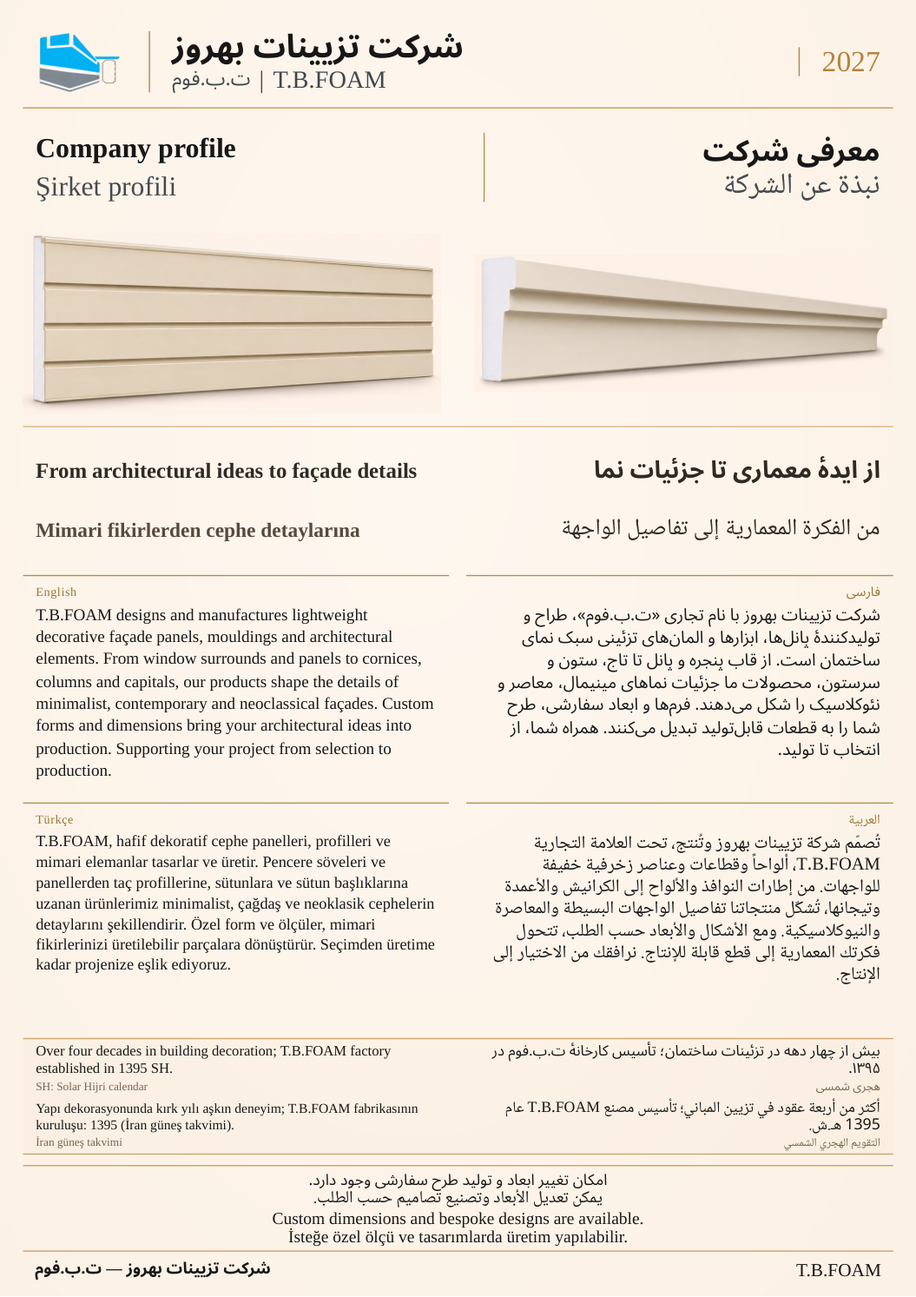
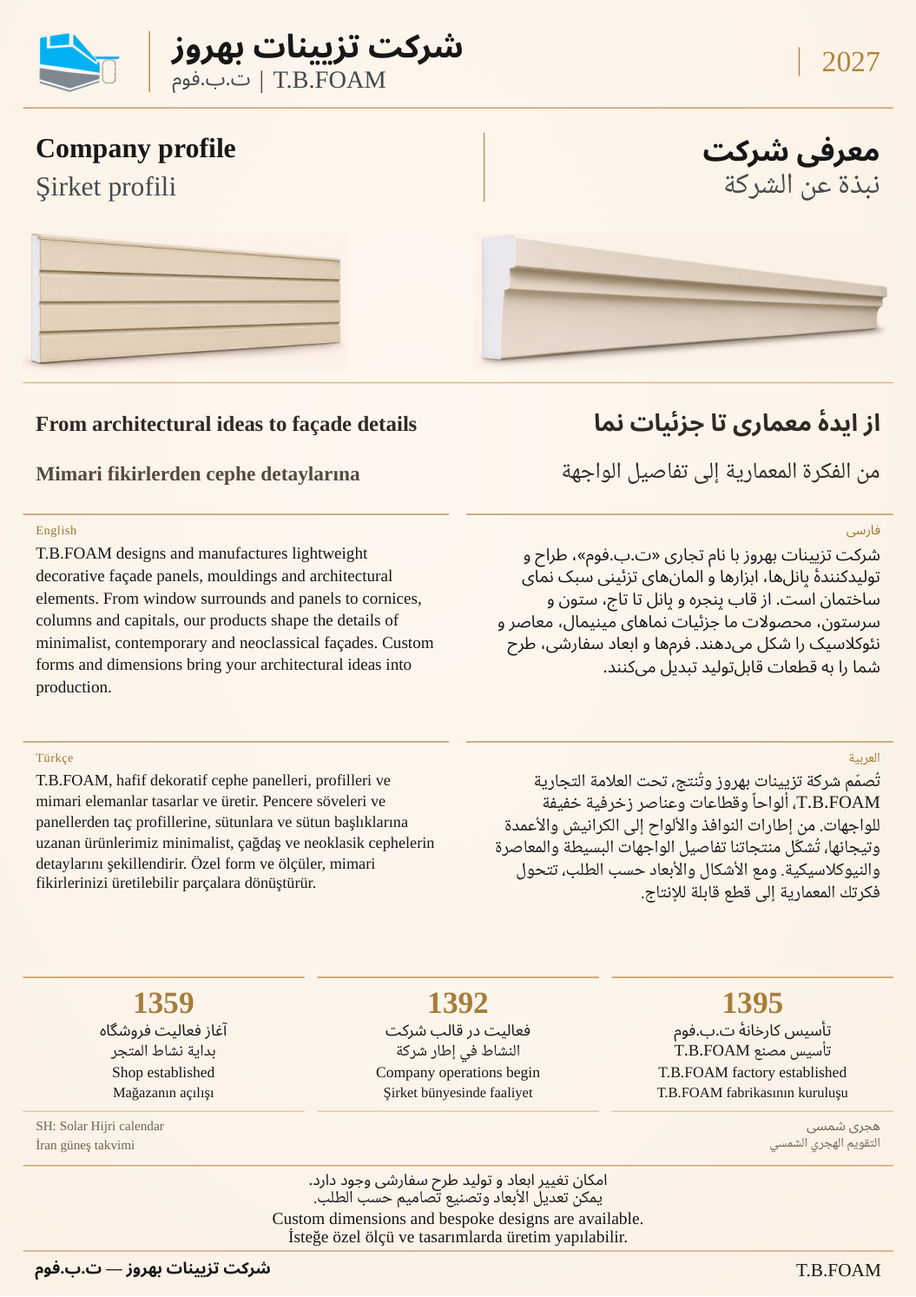
Expand company catalogue review to three complete four-language pages

Changed region(s): [[0.0303, 0.4005, 0.9706, 0.8935], [0.0303, 0.1849, 0.4853, 0.3697], [0.5156, 0.1849, 0.9706, 0.3697]]

diff --git a/CATALOGUE_2027_PROJECT.md b/CATALOGUE_2027_PROJECT.md
@@ -1,10 +1,10 @@
 # سند مرجع پروژهٔ بازطراحی کاتالوگ ۲۰۲۷
 
-نسخهٔ سند: 0.70 — آخرین بهروزرسانی: ۲۰۲۶/۱۱/۱۲، به وقت تهران
+نسخهٔ سند: 0.71 — آخرین بهروزرسانی: ۲۰۲۶/۱۱/۱۲، به وقت تهران
 
 وضعیت: مرحلهٔ۱ «جدول مادر و کدگذاری» طبقD-078تاD-080بسته شد:۳۲۲مرجع فرم،۵۰۲پیکربندی باکدمصوبیکتا،واحدعرضه وابعادلازم ثبت وکنترلشدند؛مواردبازاینمرحله صفر است. FTB23و24طبقپاسخصریح دراینکاتالوگدرج نشوند،امافعالبودنتولیدشانمحفوظ است. همهٔپانلهایمنتخب50×200وهرشاخه1m²؛کدهایCRTBبرایتاج وCTB201–210برایبدنهٔستون وپسونداندازههادرجدولمادراعمال شدهاند. برچسبصفحاتپیشنمایشقدیمی هنوزمرجعکدقدیمیاند ودرمرحلهٔیکپارچهسازی باکدمصوبهمگام شوند؛عکسها/قالب/لوگو تغییرنکردهاند.
 
-مرحلهٔ جاری: مرحلهٔ۳ «معرفی شرکت و توانمندیها». کارفرما در D-095 نسخهٔ دوصفحهای را «خیلی مختصر و مفید» دانست و دربارهٔ کاملترشدن نظر خواست. پیشنهاد محتوایی تهیه شد: سه صفحه در مجموع، شامل معرفی/تاریخچه، ساختار/مزیتها و دامنهٔ تولید/خدمات شرکت. مهمترین افزودنی زنجیرهٔ خدمات واقعی از بررسی نقشه تا جانمایی، تولید/کدگذاری و پشتیبانی فنی است. تعداد سه صفحه هنوز پیشنهاد است و تأیید نشده؛ هیچ تصویر، متن چاپی منتشرشده یا قالبی تغییر نکرد. نسخهٔ۴ و هر دو صفحهٔ فعلی مرجع منتشرشده باقیاند؛ مسئلهٔ نمایش E-045 بسته است. مرحلهٔ۳ هنوز باز و مرحلهٔ۴ آغاز نشود.
+مرحلهٔ جاری: مرحلهٔ۳ «معرفی شرکت و توانمندیها». کارفرما در D-096 پس از پیشنهاد سه صفحه در مجموع، دستور داد «صفحات رو ویرایش کن و لینک رو ارسال کن». نسخهٔ۵ شامل سه صفحهٔ واقعی آماده و کنترل شد: معرفی/سه نقطهٔ تاریخچه، تولید/مزیتها با شرط رنگ مناسب نما، و دامنهٔ۱۳گروه/چهار خدمت با محدودهٔ همکاری. هر چهار زبان، تاریخها، خدمات و یادداشت دامنه با منبع متن تطبیق داده شدند؛ سرریز ندارد و سربرگ/پاورقی هر سه صفحه اختلاف پیکسلی صفر دارند. بازبینی بصری مستقل مناسببودن برای بازبینی کارفرما را تأیید کرد. نسخهٔ۴ خوانا در snapshot محفوظ است. طبق همین درخواست، سه PNG و README در پوشهٔ بازبینی فعلی بهروز و پس از کنترل main/هش/مرورگر، لینک نسخهٔ تازه ارائه شود؛ مجوز مجدد لازم نیست. تأیید نهایی طراحی هنوز دریافت نشده است.
 
 
 ### مرجع اجرایی ثابت — پیش از هر تولید/اصلاح خوانده شود؛ مقدم بر سوابق قدیمی
@@ -13,8 +13,8 @@
 
 | موضوع | تصمیم جاری و الزام اجرا |
 | --- | --- |
-| مرحلهٔ فعال و متن معرفی | D-091: مرجع صفحهٔ چاپی brand-pages-copy-v4.json و build_brand_pages.py است؛ BRAND-01/02 تصاویر واقعی آمادهٔ بازبینیاند. متن بلند فارسی۳ فقط ذخیرهٔ محتواست و بهعنوان صفحهٔ کاتالوگ یا متن چاپی مصوب استفاده نشود. توضیحهای منبع/تدوین در artwork ممنوعاند. CURRENT.json مرجع نسخهٔ جاری است. |
-| مجوز انتشار معرفی و توانمندیها | D-092 اجرا شد: دو PNG + README در پوشهٔ company-profile-2027 برای بازبینی منتشر و بارگذاری واقعی هر دو تصویر کنترل شد. مجوز دوباره لازم نیست؛ تأیید نهایی طراحی یا چاپ هنوز دریافت نشده است. |
+| مرحلهٔ فعال و متن معرفی | D-096: مرجع جاری برند نسخهٔ۵ و سه صفحهٔ BRAND-01/02/03 است؛ copy-v5.json و build/render_brand_pages_v5.py و CURRENT.json. نسخهٔ۴ در snapshots/v4-readable محفوظ است. درخواست ویرایش و لینک، اجرای پیشنهاد سهصفحهای و انتشار در همان پوشهٔ بازبینی را پوشش میدهد؛ تأیید نهایی چاپ نیست. |
+| مجوز انتشار معرفی و توانمندیها | D-096 بهروزرسانی همان بخش به سه صفحه و ارسال لینک را مجاز کرد؛ سه PNG و README در company-profile-2027 جایگزین/افزوده شوند. PDF/کد/منابع خام محلی بمانند. مجوز دوباره لازم نیست؛ نتیجهٔ واقعی انتشار/مرورگر قبل از ارائهٔ لینک کنترل شود. |
 | دامنهٔ بخش ترکیب | ۱۲ صفحه طبق D-084 آماده و طبق D-086 منتشر شدند. کارفرما در D-088 مشاهدهٔ موفق و بازخورد مثبت را اعلام و ادامه به مرحلهٔ بعد را خواست؛ مرحلهٔ۲ برای پیشروی برنامه بسته است. ۲۷ کد از ۱۳ گروه؛ اصلاحات آینده فقط بر اساس بازخورد مشخص، نه بازتولید یا تغییر سبک خودکار. شمارهٔ چاپ همچنان در مرحلهٔ یکپارچهسازی تعیین شود. |
 | انتشار جاری ترکیبها | D-086 اجرا شد: هر ۱۲ صفحه و فهرست در پوشهٔ بازبینی منتشر و هر ۲۵ URL کنترل شد. PNG نخست ثابت؛ ۱۱ PNG تازه + ۱۲ MD مستقل + README فهرست اضافه/بهروز شدند. PDF/کد/منابع خام/جدول مادر منتشر نشدند. انتشار برای بازبینی است و تأیید نهایی طراحی/چاپ محسوب نمیشود. |
 | مجوز بازبینی نخستین ترکیب | D-082:کارفرماصریحاًگفت«بله،برایبازبینی منتشرکن»؛فقطWIN-COMB-NC-01.pngوREADMEهمانصفحه درcatalog/pages/review/combinations-2027مجازند؛باقیفایلهایPNG/PDF/داده/مدل محلی بمانند |
@@ -695,6 +695,7 @@
 | D-093 | گزارش عدمنمایش معرفی و خطای اتصال Firefox | صفحهٔ گیت باز میشود ولی تصاویر نیستند؛ raw با PR_END_OF_FILE_ERROR و reset قطع میشود. کارفرما آزمایش CDN را هم ناموفق اعلام کرد | خطای تحویل از سمت کارفرما باز است؛ موفقیت بارگذاری محیط، مشاهدهٔ او نیست. فایلهای منتشرشده عیناً حفظ شدند. آزمون بعدی همان صفحه در مرورگر دیگر است؛ از تکرار لینکهای تازه و تغییر طرح برای این مسئله پرهیز شود. |
 | D-094 | تأیید مشاهده و خوانایی صفحات معرفی و توانمندیها | کارفرما: «درست شد و قابل خواندن هست» | E-045 بسته؛ همان دو تصویر و متن نسخهٔ۴ ثابت بمانند. دامنهٔ تأیید این پیام مشاهده/خوانایی است؛ بازخورد متن/چیدمان هنوز لازم است و مرحلهٔ۳ خودکار بسته نشود. |
 | D-095 | بازخورد مثبت دربارهٔ اختصار و درخواست نظر برای کاملترشدن | کارفرما: «خیلی مختصر و مفید بود . آیا بنظرت میشه کاملترش کرد؟» | پیشنهاد سه صفحه در مجموع و چهار افزودنی اولویتدار آماده شد؛ درخواست نظر، تأیید افزایش صفحات یا مجوز تغییر/انتشار طرح تازه نیست. نسخهٔ فعلی محفوظ و مرحلهٔ۳ باز است. |
+| D-096 | دستور اجرای تکمیل سهصفحهای و ارسال لینک | در پاسخ به پیشنهاد سه صفحه در مجموع، کارفرما: «صفحات رو ویرایش کن و لینک رو ارسال کن» | سه صفحه با همان هویت/لوگو و خوانایی ساخته و در همان پوشهٔ بازبینی بهروز شود؛ درخواست انتشار همین نسخه روشن است و اجازهٔ دوباره لازم نیست. انتشار نسخهٔ بازبینی، تأیید نهایی متن/چاپ نیست. |
 
 ### موارد باز
 
@@ -823,6 +824,7 @@
 | E-043 | ارائهٔ متن بلند/گزارشی بهجای معرفی حرفهای داخل کاتالوگ؛ اعتراض صریح کارفرما D-091 | صفحههای واقعی BRAND-01/02 با متن کوتاه چهارزبانه ساخته شد؛ عبارتهای ارجاعی مانند «بر اساس تاریخچه...» و یادداشتهای منبع در تصویر چاپی حذف شد. ارجاع دقیق کارفرما به یک خط مشخص نبود؛ بدون پرسش تکراری، کل متن از نظر لحن مشتریمحور اصلاح شد. نتیجه برای بازبینی آماده و تأیید کارفرما هنوز دریافت نشده است. |
 | E-044 | کنترل اولیهٔ صفحهآرایی: متن انگلیسی معرفی حدود۶px و دو عنوان/متن توانمندی انگلیسی حدود۱۱px از فضای داخلی بیرون میزدند | فاصلهٔ داخلی و فاصلهٔ برچسب زبان اصلاح شد؛ عنوانها به Custom forms & sizes و Light & prefabricated کوتاه شدند. اندازهٔ قلم بدنه برای پنهانکردن خطا کوچک نشد. کنترل مجدد هر دو صفحه موفق و بازبینی بصری مستقل انجام شد؛ همهٔ زبانها و برندینگ سالماند. |
 | E-045 | تصاویر معرفی در سمت کارفرما نمایش داده نمیشدند؛ raw در Firefox خطای PR_END_OF_FILE_ERROR/reset داشت و آزمون CDN هم ناموفق بود | پس از پیشنهاد آزمون همان صفحه در مرورگر دیگر، کارفرما در D-094 صریحاً گفت «درست شد و قابل خواندن هست». وضعیت: بسته از جهت نمایش/خوانایی. نام مرورگر موفق و علت دقیق خطا اعلام نشده؛ موفقیت raw/CDN یا تأیید طراحی از آن نتیجه نشود. هیچ تصویر یا طرحی برای حل این مسئله تغییر نکرد؛ آزمایش نمایش دوباره مانع کار نشود. |
+| E-046 | آزمون اولیهٔ صفحهٔ۳ در نسخهٔ۵: متن انگلیسی تولید/آمادهسازی حدود۵px از کارت بیرون میزد | فقط عنوان و جملهٔ همان خدمت کوتاه شد: Production & coding / Production, coding and packaging for coordinated project installation. اندازهٔ قلم کمتر نشد. رندر نهایی هر سه صفحه، تطبیق تاریخها/خدمات/دامنه و بازبینی بصری مستقل موفق است؛ خطا پیش از انتشار رفع شد. |
 
 ### پیشنهادهای ۲۰۲۶/۱۱/۰۴ — در انتظار نظر، بدون تغییر فایل طرح
 
@@ -1682,7 +1684,7 @@ DTB10 در رندر منتخب /workspace/generated_images/exec-00dc88f4-5210-4d
 | --- | --- | --- |
 | ۱ — تمامشده | تثبیت جدولمادر محصولات وکدگذاری | ۵۰۲کدمصوبیکتا،ابعاد/واحدها ونگاشتقدیم-جدید کامل؛مواردبازاینمرحله صفر،stage1-final-validation.jsonموفق |
 | ۲ — تمامشده | ترکیب پیشنهادی نما و دور پنجره | ۱۲ صفحه با ۲۷ کد از ۱۳ گروه منتشر و نمایش مستقیم اصلاح شد؛ مشاهده و بازخورد مثبت کارفرما طبق D-088 دریافت شد؛ سبک/عکسها حفظ شوند |
-| ۳ — فعال | معرفی برند و توانمندیها | دو پیشنویس واقعی BRAND-01/02 چهارزبانه در هویت مصوب ساخته و کنترل شدهاند؛ دو PNG و README محلی آمادهٔ بازبینی است. انتشار جدید فقط با مجوز مشخص، سپس دریافت بازخورد؛ این مرحله هنوز بسته نیست |
+| ۳ — فعال | معرفی برند و توانمندیها | نسخهٔ۵ سهصفحهای طبق D-096 ساخته/کنترل شده؛ در همان پوشهٔ بازبینی برای ارائهٔ لینک بهروز شود، سپس بازخورد کارفرما دریافت شود. مرحله هنوز بسته نیست |
 | ۴ | راهنمای انتخاب،اجرا و سفارش | واحدفروش/طولعرضه،راهنمایفنی/نصبمطابقمنبع،مسیرارسالکد+ابعاد+مقدار+اطلاعاتپروژه،کانال تماس وQRمعتبر؛اطلاعاتتأمینبرایانبوهساز وشرایطهمکاریفروشنده پسازتأیید |
 | ۵ | یکپارچهسازی و ناوبریچهارزبانه | ترتیببخشها،فهرستکدمحصول/بخش،واژهنامه واطلاعاتفنیچهارزبان،نشانک و لینکPDF؛شمارهگذاریچاپ پسازتثبیت ترتیب |
 | ۶ | آزمونانتخاب/سفارش و کنترلخروجی | یکسناریویانتخابواستعلام برایهر۵گروه اجرا؛بررسیخواناییA4باچاپآزمایشی،لینک/QRومسیرسفارش؛پسازرفعموارد تحویلنهایی |
@@ -2462,6 +2464,22 @@ PNG SHA-256: ef2cccac29eeac5176930123616cca5c54c825f848d111f64f01dfc682d633ec؛P
 
 | ۲۰۲۶/۱۱/۱۲ | بازخورد مثبت دربارهٔ اختصار و درخواست نظر تکمیل، D-095 | پیشنهاد اولویتدار و پاراگراف خدمات آماده شد؛ سه صفحه در مجموع توصیه شد ولی مصوب نیست؛ هیچ تصویر/لوگو/صفحهٔ منتشرشده تغییر نکرد | ارائهٔ پیشنهاد و دریافت تصمیم دامنه؛ مرحلهٔ۳ باز میماند و مرحلهٔ۴ شروع نشود |
 
-اقدام بعدی: پیشنهاد تکمیل هدفمند به سه صفحه در مجموع و ارزش افزودهٔ خدمات/دامنهٔ تولید به کارفرما ارائه شود. عدد سه را مصوب فرض نکنید. اگر دربارهٔ دامنه تصمیم داده شد، فقط همان بخش در نسخهٔ بعدی با هویت و خوانایی فعلی طراحی شود؛ عکسها/لوگو/صفحات دیگر خودکار تغییر نکنند. راهنمای ثبت سفارش/QR/تماس/دستور نصب همچنان مرحلهٔ۴ است و فعلاً تولید نشود. اصل دو صفحهٔ منتشرشده و نسخهٔ۴ محفوظاند؛ فعلاً فقط فایل پروژه در گیت بهروز شود.
+### نسخهٔ۵ سهصفحهای — اجرای D-096
+
+| صفحه | ویرایش انجامشده | وضعیت |
+| --- | --- | --- |
+| BRAND-01 | معرفی کوتاه و سه مرحلهٔ تاریخچه۱۳۵۹ فروشگاه/۱۳۹۲ فعالیت شرکت/۱۳۹۵ کارخانه؛ تقویم هجری شمسی صریح | تصویر محصولات با همان اصل و مقیاس یکنواخت برای فضای تاریخچه کوچکتر نمایش داده شد؛ هیچ مدل/رندر اصلی تغییر نکرد |
+| BRAND-02 | ساختار EPS/CNC/پوشش همان نسخهٔ خوانا؛ شرط رنگ مناسب نمای خارجی در مزیت رنگ/ترمیم تکمیل شد | اندازهٔ قلم و چیدمان قبلی حفظ شد |
+| BRAND-03 | دامنهٔ۱۳گروه؛ بررسی نقشه/مقطع، طراحی/جانمایی، تولید/کدگذاری/بستهبندی، جزئیات اجرا/پشتیبانی | محدودهٔ همکاری در هر چهار زبان چاپ شده؛ این صفحه راهنمای سفارش/QR/تماس/آموزش نصب نیست |
+
+ساخت: /workspace/scratch/company-introduction-2027/build_brand_pages_v5.py، render_brand_pages_v5.py و brand-pages-copy-v5.json. خروجی در /workspace/exports/tbfoam/company-introduction-2027/v5 با سه PNG/PDF، گزارش کنترل و independent-visual-review.json. PDF سهصفحهای محلی company-profile-v5.pdf آماده است و در محدودهٔ انتشار گیت نیست. نسخهٔ۴ در snapshots/v4-readable و تاریخچهٔ گیت محفوظ است. همهٔ صفحات A4 عمودی،۱۰۵۵×۱۴۹۳، بدون شمارهٔ نهایی چاپ و با همان لوگوی مصوبند. متنها بهصورت بصری و با کنترل سرریز بررسی شدند؛ تاریخها،عدد۱۳،۱۶ترجمهٔ کارت خدمات و۴جملهٔ محدوده با متن منبع برابرند.
+
+SHA256 BRAND-01.png: 406001408ca5d2c075a66f1f4e649d2170f9c1e32be135d45d6e529424e35e5d
+SHA256 BRAND-02.png: 2dd922ae5764893f425c614866f61d379245c8491e51d03ae0714dd20187c83b
+SHA256 BRAND-03.png: ea1e3d6f7e9778615da199341fb72574aca2e0dd2021926c8f5b175c451a756b
+
+| ۲۰۲۶/۱۱/۱۲ | دستور ویرایش صفحات و ارسال لینک، D-096 | نسخهٔ۵ سهصفحهای آماده و بازبینی بصری شد؛ E-046 پیش از انتشار رفع؛ نسخهٔ۴ محفوظ و سربرگ/پاورقی هر سه صفحه بدون اختلاف است | انتشار سه PNG و README، کنترل main/هش/نمایش و تحویل لینک؛ مرحلهٔ۳ باز میماند |
+
+اقدام بعدی: دقیقاً BRAND-01.png + BRAND-02.png + BRAND-03.png + README.md همراه این سند طبق D-096 به main فرستاده شود؛ هیچ پرسش مجوز دوباره لازم نیست. main و دریافت/هش هر سه PNG و بارگذاری واقعی هر سه تصویر در README با Chromium کنترل و لینک نسخهٔ تازه ارائه شود. v4 و تصاویر قبلی دیگر دستنخورده بمانند. مشاهدهٔ v4 و بستهشدن E-045 بهمعنای مشاهدهٔ v5 نیست؛ تست نمایش سمت کارفرما را بدون گزارش تازه دوباره موضوع نکنید. مرحلهٔ۳ در انتظار بازخورد و مرحلهٔ۴ هنوز آغاز نشود.
 
 وضعیت انتشار در گیت باید با نتیجهٔ واقعی push و تطبیق commit راهدور گزارش شود؛ فایل محلی بهتنهایی منتشرشده نیست. درنوبتD-073فقط CATALOGUE_2027_PROJECT.md و۲۵فایل مشخص پوشهٔبازبینی تغییرمیکنند؛سایرصفحات و داراییها دستنخوردهاند. وضعیتهای قدیمی سایر اسناد ممکن است انتخاب تازه را منعکس نکنند؛ همین سند مرجع جاری است.

diff --git a/catalog/pages/review/company-profile-2027/README.md b/catalog/pages/review/company-profile-2027/README.md
@@ -1,15 +1,19 @@
-# معرفی شرکت و توانمندیها — کاتالوگ ۲۰۲۷
+# معرفی شرکت و توانمندیها — نسخهٔ تکمیلشدهٔ سهصفحهای
 
-دو صفحهٔ پیشنهادی در همان هویت مصوب، با متن کوتاه فارسی، عربی، انگلیسی و ترکی. تصاویر در همین صفحه و پشتسرهم قرار دارند.
+هر سه صفحه در همین صفحه و پشتسرهم قرار دارند. برای دیدن صفحههای بعدی به پایین بروید.
 
-## معرفی شرکت
+۱. معرفی شرکت و تاریخچهٔ سهمرحلهای
+۲. فناوری تولید و ویژگیهای کاربردی
+۳. دامنهٔ تولید و خدمات پروژه
 
-![معرفی شرکت](BRAND-01.png)
+## معرفی شرکت و تاریخچه
 
-[بازکردن مستقیم تصویر](https://raw.githubusercontent.com/peymanshakernia/catalouge/main/catalog/pages/review/company-profile-2027/BRAND-01.png)
+![معرفی شرکت و تاریخچه](BRAND-01.png)
 
-## توانمندیهای تولید
+## فناوری و توانمندیهای تولید
 
-![توانمندیهای تولید](BRAND-02.png)
+![فناوری و توانمندیهای تولید](BRAND-02.png)
 
-[بازکردن مستقیم تصویر](https://raw.githubusercontent.com/peymanshakernia/catalouge/main/catalog/pages/review/company-profile-2027/BRAND-02.png)
+## دامنهٔ تولید و خدمات پروژه
+
+![دامنهٔ تولید و خدمات پروژه](BRAND-03.png)
